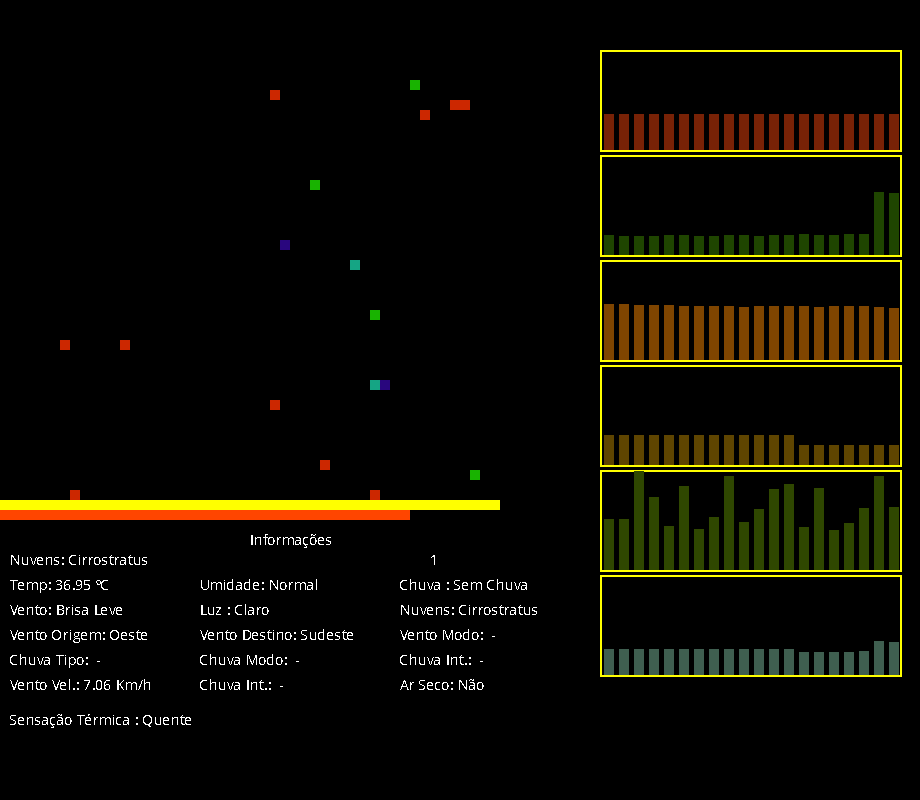
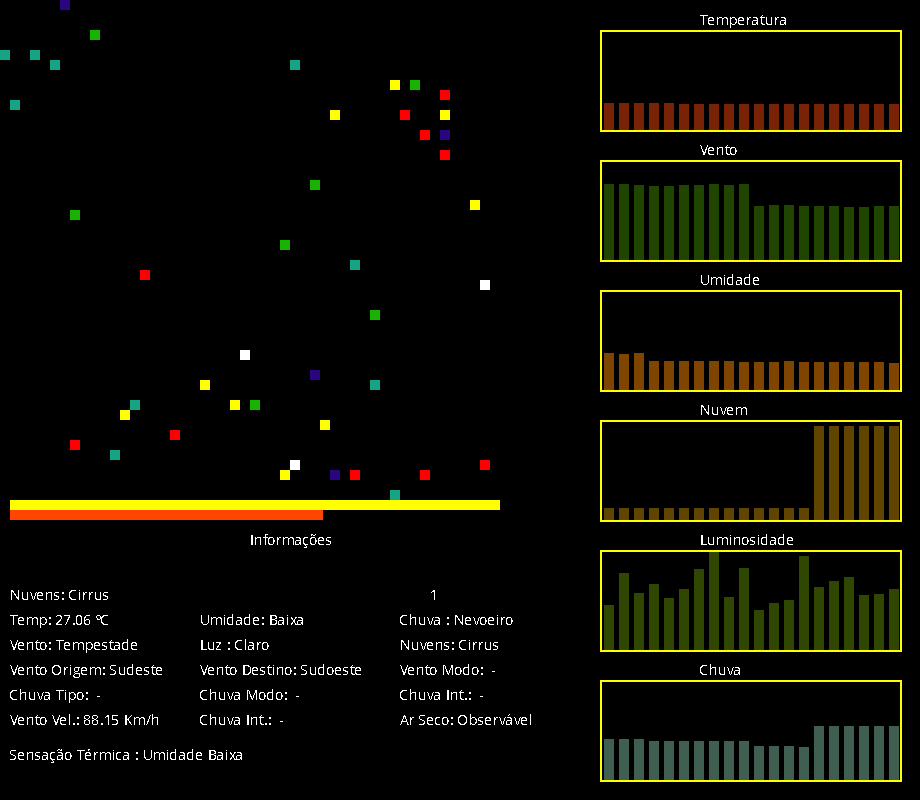
Titulos nos Gráficos

diff --git a/src/main/atualizador.go b/src/main/atualizador.go
@@ -8,25 +8,47 @@ import (
 	"strconv"
 )
 
-func AtualizarTela(a *ecossistema.Ambiente, e *Escritor) {
+func AtualizarTela(a *ecossistema.Ambiente, EscritorC *Escritor) {
 
 	AtualizarTelaBarraDia(*a, surface)
 
 	//RenderizarTextos(e)
 
-	TextosInfo(a, surface, e)
+	TextosInfo(a, surface, EscritorC)
 
-	grafico.GraficoSequenciador(*surface, 50, 0x782206, a.SeqTemperatura)
 
-	grafico.GraficoSequenciador(*surface, 155, 0x1F4500, a.SeqVento)
+	var alturador int32 = 10
 
-	grafico.GraficoSequenciador(*surface, 260, 0x7F4500, a.SeqUmidade)
 
-	grafico.GraficoSequenciador(*surface, 365, 0x5F4500, a.SeqNuvem)
+	EscritorC.EscreveBranco(700, alturador,"Temperatura")
+	alturador+=20
+	grafico.GraficoSequenciador(*surface, alturador, 0x782206, a.SeqTemperatura)
 
-	grafico.GraficoSequenciador(*surface, 470, 0x2F4700, a.SeqLuz)
+	alturador+=110
+	EscritorC.EscreveBranco(700, alturador,"Vento")
+	alturador+=20
+	grafico.GraficoSequenciador(*surface, alturador, 0x1F4500, a.SeqVento)
 
-	grafico.GraficoSequenciador(*surface, 575, 0x3F5F50, a.SeqChuva)
+
+	alturador+=110
+	EscritorC.EscreveBranco(700, alturador,"Umidade")
+	alturador+=20
+	grafico.GraficoSequenciador(*surface, alturador, 0x7F4500, a.SeqUmidade)
+
+	alturador+=110
+	EscritorC.EscreveBranco(700, alturador,"Nuvem")
+	alturador+=20
+	grafico.GraficoSequenciador(*surface, alturador, 0x5F4500, a.SeqNuvem)
+
+	alturador+=110
+	EscritorC.EscreveBranco(700, alturador,"Luminosidade")
+	alturador+=20
+	grafico.GraficoSequenciador(*surface, alturador, 0x2F4700, a.SeqLuz)
+
+	alturador+=110
+	EscritorC.EscreveBranco(700, alturador,"Chuva")
+	alturador+=20
+	grafico.GraficoSequenciador(*surface, alturador, 0x3F5F50, a.SeqChuva)
 
 	renderer.Present()
 
@@ -38,37 +60,41 @@ func TextosInfo(e *ecossistema.Ambiente, s *sdl.Surface, EscritorC *Escritor) {
 
 	EscritorC.EscreveBranco(250, 530, "Informações")
 
-	var alturador int32 = 550
+	var CA int32 = 10
+	var CB int32 = 200
+	var CC int32 = 400
+
+	var alturador int32 = 585
 
 	EscritorC.EscreveBranco(10, alturador, fmt.Sprintf("Nuvens: %s", e.NuvemCorrente()))
 	EscritorC.EscreveBranco(430, alturador, fmt.Sprintf("%d", e.Dia()))
 
 	alturador += 25
-	EscritorC.EscreveBranco(10, alturador, fmt.Sprintf("Temp: %.2f ºC", e.TemperaturaCorrente()))
-	EscritorC.EscreveBranco(200, alturador, fmt.Sprintf("Umidade: %s", e.UmidadeCorrente()))
-	EscritorC.EscreveBranco(400, alturador, fmt.Sprintf("Chuva : %s", e.ChuvaCorrente()))
+	EscritorC.EscreveBranco(CA, alturador, fmt.Sprintf("Temp: %.2f ºC", e.TemperaturaCorrente()))
+	EscritorC.EscreveBranco(CB, alturador, fmt.Sprintf("Umidade: %s", e.UmidadeCorrente()))
+	EscritorC.EscreveBranco(CC, alturador, fmt.Sprintf("Chuva : %s", e.ChuvaCorrente()))
 
 	alturador += 25
-	EscritorC.EscreveBranco(10, alturador, fmt.Sprintf("Vento: %s", e.VentoCorrente()))
-	EscritorC.EscreveBranco(200, alturador, fmt.Sprintf("Luz : %s", e.LuzCorrente()))
-	EscritorC.EscreveBranco(400, alturador, fmt.Sprintf("Nuvens: %s", e.NuvemCorrente()))
+	EscritorC.EscreveBranco(CA, alturador, fmt.Sprintf("Vento: %s", e.VentoCorrente()))
+	EscritorC.EscreveBranco(CB, alturador, fmt.Sprintf("Luz : %s", e.LuzCorrente()))
+	EscritorC.EscreveBranco(CC, alturador, fmt.Sprintf("Nuvens: %s", e.NuvemCorrente()))
 
 	alturador += 25
-	EscritorC.EscreveBranco(10, alturador, fmt.Sprintf("Vento Origem: %s", e.VentoOrigem()))
-	EscritorC.EscreveBranco(200, alturador, fmt.Sprintf("Vento Destino: %s", e.VentoDestino()))
-	EscritorC.EscreveBranco(400, alturador, fmt.Sprintf("Vento Modo: %s", e.VentoModo()))
-
-	alturador += 25
-
-	EscritorC.EscreveBranco(10, alturador, fmt.Sprintf("Chuva Tipo: %s", e.ChuvaTipo()))
-	EscritorC.EscreveBranco(200, alturador, fmt.Sprintf("Chuva Modo: %s", e.ChuvaModo()))
-	EscritorC.EscreveBranco(400, alturador, "Chuva Int.: "+e.ChuvaIntensidadeStatus())
+	EscritorC.EscreveBranco(CA, alturador, fmt.Sprintf("Vento Origem: %s", e.VentoOrigem()))
+	EscritorC.EscreveBranco(CB, alturador, fmt.Sprintf("Vento Destino: %s", e.VentoDestino()))
+	EscritorC.EscreveBranco(CC, alturador, fmt.Sprintf("Vento Modo: %s", e.VentoModo()))
 
 	alturador += 25
 
-	EscritorC.EscreveBranco(10, alturador, "Vento Vel.: "+e.VentoVelocidadeCorrenteInfo())
-	EscritorC.EscreveBranco(200, alturador, "Chuva Int.: "+e.ChuvaIntensidadeInfo())
-	EscritorC.EscreveBranco(400, alturador, fmt.Sprintf("Ar Seco: %s", e.ArSecoStatus()))
+	EscritorC.EscreveBranco(CA, alturador, fmt.Sprintf("Chuva Tipo: %s", e.ChuvaTipo()))
+	EscritorC.EscreveBranco(CB, alturador, fmt.Sprintf("Chuva Modo: %s", e.ChuvaModo()))
+	EscritorC.EscreveBranco(CC, alturador, "Chuva Int.: "+e.ChuvaIntensidadeStatus())
+
+	alturador += 25
+
+	EscritorC.EscreveBranco(CA, alturador, "Vento Vel.: "+e.VentoVelocidadeCorrenteInfo())
+	EscritorC.EscreveBranco(CB, alturador, "Chuva Int.: "+e.ChuvaIntensidadeInfo())
+	EscritorC.EscreveBranco(CC, alturador, fmt.Sprintf("Ar Seco: %s", e.ArSecoStatus()))
 
 	alturador += 35
 

diff --git a/src/ecossistema/consumidor.go b/src/ecossistema/consumidor.go
@@ -13,6 +13,9 @@ type Consumidor struct {
 	_adultociclo        int
 	_reproduzirciclo    int
 	_reproduzircontador int
+	
+	_nivelconsumidor	int
+	_alimentacao		[]string
 
 	_temAlvo bool
 	_alvoX   int
@@ -23,7 +26,7 @@ type Consumidor struct {
 	_ecossistemaC *Ecossistema
 }
 
-func ConsumidorNovo(nome string, adulto int, reproducao int, vida int, cor uint32, ecossistemaC *Ecossistema) *Consumidor {
+func ConsumidorNovo(nome string, adulto int, reproducao int, vida int, cor uint32, ecossistemaC *Ecossistema, alimentacaoNome []string, nivelconsumidor int) *Consumidor {
 
 	p := Consumidor{_adultociclo: adulto}
 
@@ -36,6 +39,9 @@ func ConsumidorNovo(nome string, adulto int, reproducao int, vida int, cor uint3
 
 	p._reproduzirciclo = reproducao
 	p._reproduzircontador = 0
+
+	p._nivelconsumidor = nivelconsumidor
+	p._alimentacao = alimentacaoNome
 
 	p._temAlvo = false
 	p._alvoX = 0
@@ -103,7 +109,7 @@ func (c *Consumidor) reproduzir(tb *tabuleiro.Tabuleiro) {
 		c._reproduzircontador = 0
 		fmt.Println("       --- Consumidor : ", c.Nome(), " Reproduzindo !!!")
 
-		var pg = ConsumidorNovo(c._nome, c._adultociclo, c._reproduzirciclo, c._vida, c._cor, c._ecossistemaC)
+		var pg = ConsumidorNovo(c._nome, c._adultociclo, c._reproduzirciclo, c._vida, c._cor, c._ecossistemaC, c._alimentacao, c._nivelconsumidor)
 		var x = utils.Aleatorionumero(50)
 		var y = utils.Aleatorionumero(50)
 
@@ -117,6 +123,16 @@ func (c *Consumidor) reproduzir(tb *tabuleiro.Tabuleiro) {
 		c._ecossistemaC.AdicionarConsumidor(pg)
 	}
 
+}
+
+
+func verificaAlimento(nome string, alimentacao []string) bool{
+	for _, a := range alimentacao {
+        if a == nome {
+            return true
+        }
+    }
+    return false
 }
 
 func (c *Consumidor) VerificarAlvo(tb *tabuleiro.Tabuleiro) {
@@ -135,18 +151,27 @@ func (c *Consumidor) VerificarAlvo(tb *tabuleiro.Tabuleiro) {
 			var chaoBusca = -tetoBusca
 
 			// TODO: Refatorar com posicoes absolutas no tabuleiro
-			for _, produtor := range c._ecossistemaC.produtores {
+			// TODO Refatorar e retirar for duplicado
+			if (c._nivelconsumidor == 1){
 
-				for i := tetoBusca; i > chaoBusca; i-- {
+				for _, produtor := range c._ecossistemaC.produtores {
 
-					for j := tetoBusca; j > chaoBusca; j-- {
+					for i := tetoBusca; i > chaoBusca; i-- {
 
-						if produtor._posx == c._posx+i && produtor._posy == c._posy+j {
-							alvo = true
-							alvoX = c._posx + i
-							alvoY = c._posy + j
+						for j := tetoBusca; j > chaoBusca; j-- {
+
+							if produtor._posx == c._posx+i && produtor._posy == c._posy+j && verificaAlimento(produtor.organismo._nome, c._alimentacao){
+								alvo = true
+								alvoX = c._posx + i
+								alvoY = c._posy + j
+								break
+							}
+						}
+
+						if alvo {
 							break
 						}
+
 					}
 
 					if alvo {
@@ -154,9 +179,31 @@ func (c *Consumidor) VerificarAlvo(tb *tabuleiro.Tabuleiro) {
 					}
 
 				}
+			}else{
+				for _, consumidor := range c._ecossistemaC.consumidores {
 
-				if alvo {
-					break
+					for i := tetoBusca; i > chaoBusca; i-- {
+
+						for j := tetoBusca; j > chaoBusca; j-- {
+
+							if consumidor._posx == c._posx+i && consumidor._posy == c._posy+j && verificaAlimento(consumidor.organismo._nome, c._alimentacao){
+								alvo = true
+								alvoX = c._posx + i
+								alvoY = c._posy + j
+								break
+							}
+						}
+
+						if alvo {
+							break
+						}
+
+					}
+
+					if alvo {
+						break
+					}
+
 				}
 
 			}
@@ -242,13 +289,24 @@ func (c *Consumidor) CacarAlvo(tb *tabuleiro.Tabuleiro) {
 func (c *Consumidor) matarAlvo() {
 
 	// TODO: Refatorar com posicoes absolutas no tabuleiro
-	for _, produtor := range c._ecossistemaC.produtores {
+	if (c._nivelconsumidor == 1){
+		for _, produtor := range c._ecossistemaC.produtores {
 
-		if produtor._posx == c._alvoX && produtor._posy == c._alvoY {
-			produtor.morrer()
-			break
+			if produtor._posx == c._alvoX && produtor._posy == c._alvoY {
+				produtor.morrer()
+				break
+			}
+
 		}
+	}else{
+		for _, consumidor := range c._ecossistemaC.consumidores {
 
+			if consumidor._posx == c._alvoX && consumidor._posy == c._alvoY {
+				consumidor.morrer()
+				break
+			}
+
+		}
 	}
 
 }
@@ -268,4 +326,11 @@ func (c *Consumidor) toString() string {
 	var str = c.Nome() + " [" + c.Fase() + " " + strconv.Itoa(c.Ciclos()) + "]" + " POS[" + strconv.Itoa(c.x()) + " " + strconv.Itoa(c.y()) + "]"
 
 	return str
+}
+
+//TODO inserido na parte de consumidor seucnario
+func (p *Consumidor) morrer() {
+
+	p._status = "morto"
+	fmt.Println("       --- Consumidor : ", p.Nome(), " Morreu !!!")
 }

diff --git a/src/ecossistema/ecossistema.go b/src/ecossistema/ecossistema.go
@@ -336,7 +336,7 @@ func (e *Ecossistema) TotalConsumidoresFase() (int, int) {
 
 }
 
-func (e *Ecossistema) GerarOrganismos(tipo string, quantidade int, nome string, adulto int, reproducao int, gestacao int, vida int, cor uint32) {
+func (e *Ecossistema) GerarOrganismos(tipo string, quantidade int, nome string, adulto int, reproducao int, gestacao int, vida int, cor uint32, alimentacaoNome []string, nivelconsumidor int) {
 
 	switch tipo {
 
@@ -347,7 +347,7 @@ func (e *Ecossistema) GerarOrganismos(tipo string, quantidade int, nome string, 
 
 	case "consumidor":
 		for i := 0; i < quantidade; i++ {
-			e.AdicionarConsumidor(ConsumidorNovo(nome, adulto, reproducao, vida, cor, e))
+			e.AdicionarConsumidor(ConsumidorNovo(nome, adulto, reproducao, vida, cor, e, alimentacaoNome, nivelconsumidor))
 		}
 
 	}
@@ -368,15 +368,16 @@ func (e *Ecossistema) CarregarOrganismos(caminho string) {
 
 		var organismoC *bioxml.Organismo = bioxml.CarregarOrganismo(caminho + OrganismoNome + ".organismo")
 
+		
 		if organismoC.Base.Tipo == "Produtor" {
 			var cor uint32 = organismoC.Base.Cor
 
-			e.GerarOrganismos("produtor", 10, OrganismoNome, organismoC.Base.Adulto, organismoC.Reproducao.Frequencia, organismoC.Reproducao.Gestacao, organismoC.Base.Vida, cor)
+
+			e.GerarOrganismos("produtor", 10, OrganismoNome, organismoC.Base.Adulto, organismoC.Reproducao.Frequencia, organismoC.Reproducao.Gestacao, organismoC.Base.Vida, cor, organismoC.Alimentacao.Nome, organismoC.Base.Nivel)
 		}
 		if organismoC.Base.Tipo == "Consumidor" {
 			var cor uint32 = organismoC.Base.Cor
-
-			e.GerarOrganismos("consumidor", 10, OrganismoNome, organismoC.Base.Adulto, organismoC.Reproducao.Frequencia, organismoC.Reproducao.Gestacao, organismoC.Base.Vida, cor)
+			e.GerarOrganismos("consumidor", 10, OrganismoNome, organismoC.Base.Adulto, organismoC.Reproducao.Frequencia, organismoC.Reproducao.Gestacao, organismoC.Base.Vida, cor, organismoC.Alimentacao.Nome, organismoC.Base.Nivel)
 		}
 	}
 

diff --git a/src/bioxml/estruturas.go b/src/bioxml/estruturas.go
@@ -4,10 +4,12 @@ type Organismo struct {
 	Base       Base       `xml:"Base"`
 	Reproducao Reproducao `xml:"Reproducao"`
 	Taxas      Taxas      `xml:"Taxas"`
+	Alimentacao Alimentacao `xml:"Alimentacao"`
 }
 
 type Base struct {
 	Tipo   string `xml:"Tipo,attr"`
+	Nivel int `xml:"Nivel,attr"`
 	Adulto int    `xml:"Adulto,attr"`
 	Vida   int    `xml:"Vida,attr"`
 	Cor    uint32 `xml:"Cor,attr"`
@@ -21,4 +23,8 @@ type Reproducao struct {
 type Taxas struct {
 	GasCarbonico int `xml:"GasCarbonico,attr"`
 	GasOxigenio  int `xml:"GasOxigenio,attr"`
+}
+
+type Alimentacao struct{
+	Nome []string `xml:"Nome"`
 }

diff --git a/src/ecossistema/organismo.go b/src/ecossistema/organismo.go
@@ -21,6 +21,8 @@ type organismo struct {
 	_posy int
 
 	rect sdl.Rect
+	_Alimentacao []string
+
 
 	_energia        float32
 	_direcao        string

diff --git a/README.md b/README.md
@@ -14,7 +14,7 @@
     - TERMINAL : apt install libsdl2{,-image,-mixer,-ttf,-gfx}-dev
     - TERMINAL: go get -v github.com/veandco/go-sdl2/{sdl,img,mix,ttf}
  
-##Packages
+## Packages
 
     - BioXML
     - Ecossistema
@@ -25,7 +25,7 @@
 ## Conceito Geral
 
 Simulação de um ecossistema terrestre mostrando a interação de produtores e consumidores, entre si e com fatores abióticos, como chuva, vento, umidade e etc.
-A simulação também implementa funções de ciclo de vida, como nascimento,movimentação, alimentação, reprodução e morte.
+A simulação também implementa funções de ciclo de vida, como nascimento, movimentação, alimentação, reprodução e morte.
 
 ## Funções Implementadas
 
